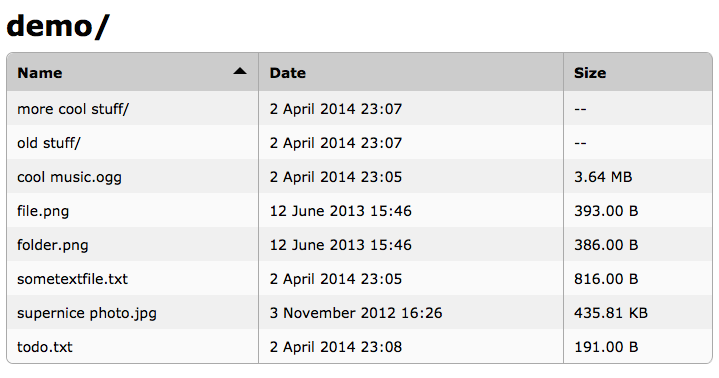
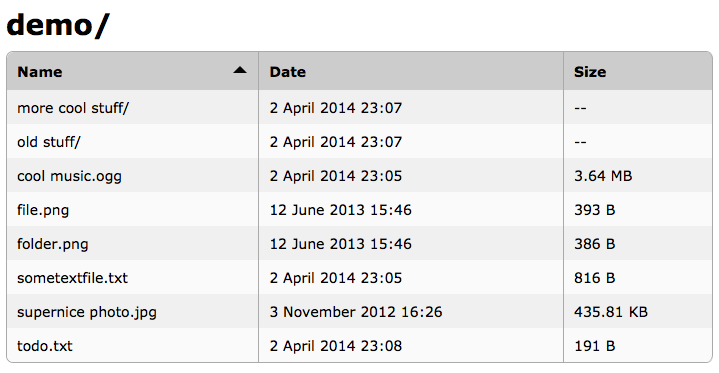
removed .00 from floats

diff --git a/index.php b/index.php
@@ -140,13 +140,22 @@ function order_dirs_on_top($files) {
  * Makes a float human readable.
  *
  * Will round the float to the given `$precision` and will zero-fill to
- * the given `$precision`.
+ * the given `$precision`, unless the float ends in two zero's, then it
+ * will leave away the dot and the zero's.
  */
 function human_readable_float($float, $precision = 2) {
-    return number_format(
+
+    $float = number_format(
         round($float, $precision),
         $precision
     );
+
+    if (substr($float, -3) == '.00') {
+        $float = substr($float, 0, -3);
+    }
+
+    return $float;
+
 }
 
 /**
